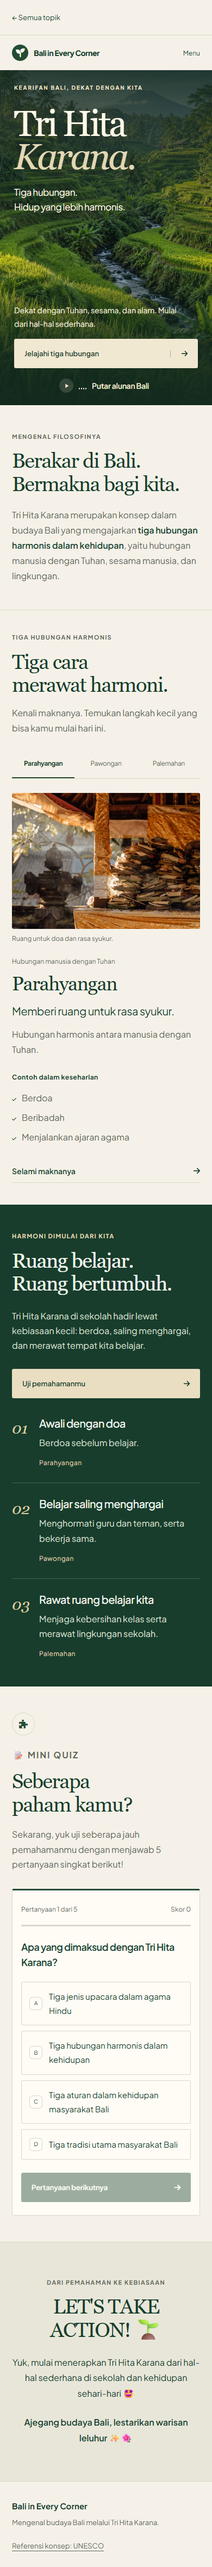
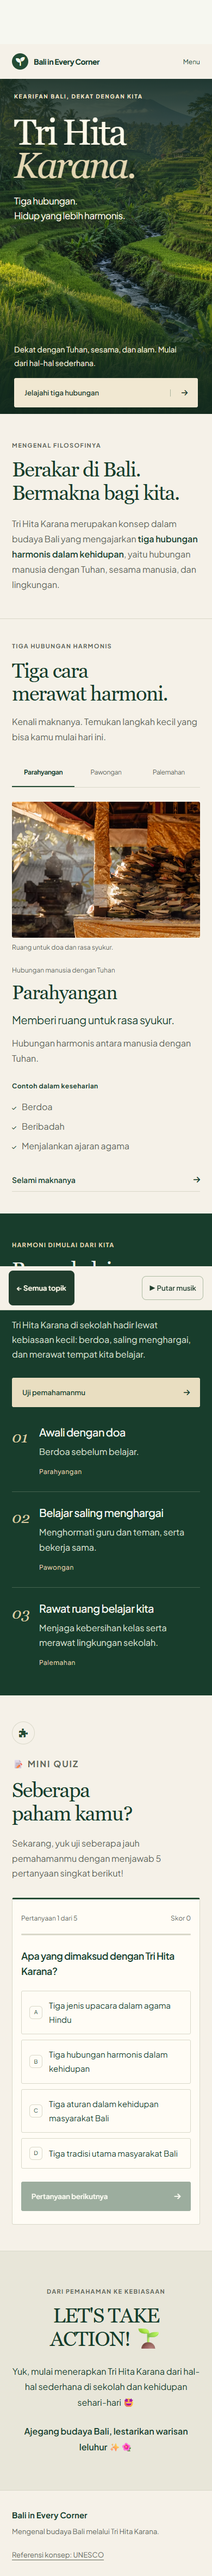
feat: keep topic navigation visible and share music across pages

Changed region(s): [[0.0, 0.0, 1.0, 0.654], [0.0615, 0.654, 0.8308, 0.9343], [0.8308, 0.7163, 0.8615, 0.7475]]

diff --git a/home-preview.html b/home-preview.html
@@ -1,6 +1,7 @@
 <!doctype html>
-<html lang="id"><head><meta charset="utf-8"><meta name="viewport" content="width=device-width,initial-scale=1"><title>Bali — Pilih ceritamu</title><link rel="stylesheet" href="css/fonts.css"><link rel="stylesheet" href="css/home-preview.css"></head><body><div class="shell"><header><a class="brand" href="home-preview.html"><span class="mark"><i class="fa-solid fa-seedling" aria-hidden="true"></i></span>Bali in Every Corner</a></header><main><div class="intro"><p class="eyebrow">DEKAT DENGAN BALI</p><h1>Pilih ceritamu.</h1></div><section class="explorer" aria-label="Pilihan topik" aria-roledescription="carousel"><div id="stage"><article class="slide" aria-label="1 dari 2: Tri Hita Karana"><img src="assets/images/bali-portrait.webp" alt="Ilustrasi sawah berundak di Bali"><div class="story"><p class="category">FILOSOFI & KEHIDUPAN</p><h2>Tri Hita<br><em>Karana.</em></h2><p class="summary">Tiga hubungan. Satu harmoni.</p><a class="enter" href="topic-preview.html">Mulai jelajahi <span aria-hidden="true">↗</span></a></div></article><article class="slide upcoming" aria-label="2 dari 2: Cerita berikutnya" hidden><span class="ornament" aria-hidden="true">✳</span><div class="story"><p class="category">PERJALANAN BERLANJUT</p><h2>Masih banyak<br><em>cerita.</em></h2><p class="summary">Topik berikutnya sedang disiapkan.</p><span class="soon">Segera hadir</span></div></article></div><div class="navigator"><div class="counter" aria-live="polite" aria-atomic="true"><span id="number">01</span><span class="divider"></span><span>02</span></div><div class="arrows"><button id="prev" type="button" aria-label="Topik sebelumnya" disabled>←</button><button id="next" type="button" aria-label="Topik berikutnya">→</button></div></div></section></main><footer>Budaya yang dekat. Cerita yang melekat.</footer></div><script>
+<html lang="id"><head><meta charset="utf-8"><meta name="viewport" content="width=device-width,initial-scale=1"><title>Bali — Pilih ceritamu</title><link rel="stylesheet" href="css/fonts.css"><link rel="stylesheet" href="css/home.css"><link rel="stylesheet" href="css/global.css"></head><body><nav class="site-bar" aria-label="Navigasi dan musik"><a class="all-topics" href="home-preview.html">← Semua topik</a><button id="g-audio-btn" type="button" aria-label="Putar musik latar Bali" aria-pressed="false"><span id="g-audio-label">▶ Putar musik</span></button><audio id="g-audio-el" preload="metadata" loop src="assets/audio/tri-hita-karana.mp3"></audio></nav><div class="shell"><header><a class="brand" href="home-preview.html"><span class="mark"><i class="fa-solid fa-seedling" aria-hidden="true"></i></span>Bali in Every Corner</a></header><main><div class="intro"><p class="eyebrow">DEKAT DENGAN BALI</p><h1>Pilih ceritamu.</h1></div><section class="explorer" aria-label="Pilihan topik" aria-roledescription="carousel"><div id="stage"><article class="slide" aria-label="1 dari 2: Tri Hita Karana"><img src="assets/images/bali-portrait.webp" alt="Ilustrasi sawah berundak di Bali"><div class="story"><p class="category">FILOSOFI & KEHIDUPAN</p><h2>Tri Hita<br><em>Karana.</em></h2><p class="summary">Tiga hubungan. Satu harmoni.</p><a class="enter" href="topic-preview.html">Mulai jelajahi <span aria-hidden="true">↗</span></a></div></article><article class="slide upcoming" aria-label="2 dari 2: Cerita berikutnya" hidden><span class="ornament" aria-hidden="true">✳</span><div class="story"><p class="category">PERJALANAN BERLANJUT</p><h2>Masih banyak<br><em>cerita.</em></h2><p class="summary">Topik berikutnya sedang disiapkan.</p><span class="soon">Segera hadir</span></div></article></div><div class="navigator"><div class="counter" aria-live="polite" aria-atomic="true"><span id="number">01</span><span class="divider"></span><span>02</span></div><div class="arrows"><button id="prev" type="button" aria-label="Topik sebelumnya" disabled>←</button><button id="next" type="button" aria-label="Topik berikutnya">→</button></div></div></section></main><footer>Budaya yang dekat. Cerita yang melekat.</footer></div><script>
 const slides=[...document.querySelectorAll('.slide')],prev=document.getElementById('prev'),next=document.getElementById('next'),stage=document.getElementById('stage');let current=0;
 function select(index){if(index<0||index>=slides.length||index===current)return;current=index;slides.forEach((slide,i)=>slide.hidden=i!==current);document.getElementById('number').textContent=String(current+1).padStart(2,'0');prev.disabled=current===0;next.disabled=current===slides.length-1;if(document.activeElement===prev&&prev.disabled)next.focus();else if(document.activeElement===next&&next.disabled)prev.focus();if(!matchMedia('(prefers-reduced-motion: reduce)').matches)slides[current].animate([{opacity:.4,transform:'translateY(8px)'},{opacity:1,transform:'translateY(0)'}],{duration:250,easing:'ease-out'});}
 prev.onclick=()=>select(current-1);next.onclick=()=>select(current+1);document.querySelector('.explorer').addEventListener('keydown',e=>{if(e.key==='ArrowRight'){e.preventDefault();select(current+1);}if(e.key==='ArrowLeft'){e.preventDefault();select(current-1);}});let start;stage.addEventListener('touchstart',e=>{start={x:e.touches[0].clientX,y:e.touches[0].clientY};},{passive:true});stage.addEventListener('touchend',e=>{if(!start)return;const dx=e.changedTouches[0].clientX-start.x,dy=e.changedTouches[0].clientY-start.y;if(Math.abs(dx)>60&&Math.abs(dx)>Math.abs(dy)*1.5)select(current+(dx<0?1:-1));start=null;},{passive:true});stage.addEventListener('touchcancel',()=>start=null);
-</script></body></html>
+</script><script src="js/music.js"></script></body></html>
+

diff --git a/index.html b/index.html
@@ -1,6 +1,6 @@
 <!doctype html>
-<html lang="id"><head><meta charset="utf-8"><meta name="viewport" content="width=device-width,initial-scale=1"><title>Bali — Pilih ceritamu</title><link rel="stylesheet" href="css/fonts.css"><link rel="stylesheet" href="css/home.css"></head><body><div class="shell"><header><a class="brand" href="index.html"><span class="mark"><i class="fa-solid fa-seedling" aria-hidden="true"></i></span>Bali in Every Corner</a></header><main><div class="intro"><p class="eyebrow">DEKAT DENGAN BALI</p><h1>Pilih ceritamu.</h1></div><section class="explorer" aria-label="Pilihan topik" aria-roledescription="carousel"><div id="stage"><article class="slide" aria-label="1 dari 2: Tri Hita Karana"><img src="assets/images/bali-portrait.webp" alt="Ilustrasi sawah berundak di Bali"><div class="story"><p class="category">FILOSOFI & KEHIDUPAN</p><h2>Tri Hita<br><em>Karana.</em></h2><p class="summary">Tiga hubungan. Satu harmoni.</p><a class="enter" href="tri-hita-karana.html">Mulai jelajahi <span aria-hidden="true">↗</span></a></div></article><article class="slide upcoming" aria-label="2 dari 2: Cerita berikutnya" hidden><span class="ornament" aria-hidden="true">✳</span><div class="story"><p class="category">PERJALANAN BERLANJUT</p><h2>Masih banyak<br><em>cerita.</em></h2><p class="summary">Topik berikutnya sedang disiapkan.</p><span class="soon">Segera hadir</span></div></article></div><div class="navigator"><div class="counter" aria-live="polite" aria-atomic="true"><span id="number">01</span><span class="divider"></span><span>02</span></div><div class="arrows"><button id="prev" type="button" aria-label="Topik sebelumnya" disabled>←</button><button id="next" type="button" aria-label="Topik berikutnya">→</button></div></div></section></main><footer>Budaya yang dekat. Cerita yang melekat.</footer></div><script>
+<html lang="id"><head><meta charset="utf-8"><meta name="viewport" content="width=device-width,initial-scale=1"><title>Bali — Pilih ceritamu</title><link rel="stylesheet" href="css/fonts.css"><link rel="stylesheet" href="css/home.css"><link rel="stylesheet" href="css/global.css"></head><body><nav class="site-bar" aria-label="Navigasi dan musik"><a class="all-topics" href="index.html">← Semua topik</a><button id="g-audio-btn" type="button" aria-label="Putar musik latar Bali" aria-pressed="false"><span id="g-audio-label">▶ Putar musik</span></button><audio id="g-audio-el" preload="metadata" loop src="assets/audio/tri-hita-karana.mp3"></audio></nav><div class="shell"><header><a class="brand" href="index.html"><span class="mark"><i class="fa-solid fa-seedling" aria-hidden="true"></i></span>Bali in Every Corner</a></header><main><div class="intro"><p class="eyebrow">DEKAT DENGAN BALI</p><h1>Pilih ceritamu.</h1></div><section class="explorer" aria-label="Pilihan topik" aria-roledescription="carousel"><div id="stage"><article class="slide" aria-label="1 dari 2: Tri Hita Karana"><img src="assets/images/bali-portrait.webp" alt="Ilustrasi sawah berundak di Bali"><div class="story"><p class="category">FILOSOFI & KEHIDUPAN</p><h2>Tri Hita<br><em>Karana.</em></h2><p class="summary">Tiga hubungan. Satu harmoni.</p><a class="enter" href="tri-hita-karana.html">Mulai jelajahi <span aria-hidden="true">↗</span></a></div></article><article class="slide upcoming" aria-label="2 dari 2: Cerita berikutnya" hidden><span class="ornament" aria-hidden="true">✳</span><div class="story"><p class="category">PERJALANAN BERLANJUT</p><h2>Masih banyak<br><em>cerita.</em></h2><p class="summary">Topik berikutnya sedang disiapkan.</p><span class="soon">Segera hadir</span></div></article></div><div class="navigator"><div class="counter" aria-live="polite" aria-atomic="true"><span id="number">01</span><span class="divider"></span><span>02</span></div><div class="arrows"><button id="prev" type="button" aria-label="Topik sebelumnya" disabled>←</button><button id="next" type="button" aria-label="Topik berikutnya">→</button></div></div></section></main><footer>Budaya yang dekat. Cerita yang melekat.</footer></div><script>
 const slides=[...document.querySelectorAll('.slide')],prev=document.getElementById('prev'),next=document.getElementById('next'),stage=document.getElementById('stage');let current=0;
 function select(index){if(index<0||index>=slides.length||index===current)return;current=index;slides.forEach((slide,i)=>slide.hidden=i!==current);document.getElementById('number').textContent=String(current+1).padStart(2,'0');prev.disabled=current===0;next.disabled=current===slides.length-1;if(document.activeElement===prev&&prev.disabled)next.focus();else if(document.activeElement===next&&next.disabled)prev.focus();if(!matchMedia('(prefers-reduced-motion: reduce)').matches)slides[current].animate([{opacity:.4,transform:'translateY(8px)'},{opacity:1,transform:'translateY(0)'}],{duration:250,easing:'ease-out'});}
 prev.onclick=()=>select(current-1);next.onclick=()=>select(current+1);document.querySelector('.explorer').addEventListener('keydown',e=>{if(e.key==='ArrowRight'){e.preventDefault();select(current+1);}if(e.key==='ArrowLeft'){e.preventDefault();select(current-1);}});let start;stage.addEventListener('touchstart',e=>{start={x:e.touches[0].clientX,y:e.touches[0].clientY};},{passive:true});stage.addEventListener('touchend',e=>{if(!start)return;const dx=e.changedTouches[0].clientX-start.x,dy=e.changedTouches[0].clientY-start.y;if(Math.abs(dx)>60&&Math.abs(dx)>Math.abs(dy)*1.5)select(current+(dx<0?1:-1));start=null;},{passive:true});stage.addEventListener('touchcancel',()=>start=null);
-</script></body></html>
+</script><script src="js/music.js"></script></body></html>

diff --git a/js/app.js b/js/app.js
@@ -95,25 +95,4 @@
  if('IntersectionObserver'in window&&!reduced.matches){const observer=new IntersectionObserver(entries=>{entries.forEach(entry=>{if(entry.isIntersecting){entry.target.classList.remove('g-pending');observer.unobserve(entry.target);}});},{threshold:.06});root.querySelectorAll('.g-reveal, .g-school-list li').forEach(n=>{n.classList.add('g-reveal','g-pending');observer.observe(n);});}
  function updateMotion(){root.style.colorScheme=design.appearance==='auto'?'':design.appearance;root.style.setProperty('--g-duration',design.motion==='off'?'0ms':design.motion==='gentle'?'450ms':'650ms');root.querySelectorAll('.g-pending').forEach(n=>n.classList.remove('g-pending'));root.dataset.motion=design.motion;if(design.motion==='off')root.getAnimations({subtree:true}).forEach(a=>a.cancel());}
  if(globalThis.Tweak){const tweak=new Tweak({container:root,onChange:updateMotion});tweak.addSelect(design,'appearance',{label:'Tampilan hijau',options:[{label:'Ikuti perangkat',value:'auto'},{label:'Hijau terang',value:'light'},{label:'Hijau hutan gelap',value:'dark'}]});tweak.addSelect(design,'motion',{label:'Gerakan',options:[{label:'Mengalir',value:'flow'},{label:'Lebih tenang',value:'gentle'},{label:'Tanpa animasi',value:'off'}]});}
-  // Ambient Balinese Music Controller
-  const audioDock=find('g-audio-dock'),audioBtn=find('g-audio-btn'),audioBubble=find('g-audio-bubble'),audioBubbleClose=find('g-audio-bubble-close'),audioLabel=find('g-audio-label'),audio=find('g-audio-el');
-  let fadeTimer=null;
-  function setVolume(target,duration=500,onDone){if(!audio)return;clearInterval(fadeTimer);const stepMs=30,steps=Math.max(1,duration/stepMs),diff=(target-audio.volume)/steps;fadeTimer=setInterval(()=>{const next=audio.volume+diff;if((diff>0&&next>=target)||(diff<0&&next<=target)||diff===0){audio.volume=Math.max(0,Math.min(1,target));clearInterval(fadeTimer);if(onDone)onDone();}else{audio.volume=Math.max(0,Math.min(1,next));}},stepMs);}
-  function updateAudioUI(playing){if(!audioBtn)return;audioBtn.dataset.playing=String(playing);audioBtn.setAttribute('aria-pressed',String(playing));audioBtn.setAttribute('aria-label',playing?'Jeda musik latar Bali':'Putar musik latar Bali');if(audioLabel)audioLabel.textContent=playing?'Jeda alunan Bali':'Putar alunan Bali';}
-  function dismissBubble(){if(audioBubble){audioBubble.classList.add('g-hidden');try{sessionStorage.setItem('thk_audio_bubble_dismissed','1');}catch(_){}}}
-  async function playAudio(fade=true){dismissBubble();if(!audio)return;try{audio.volume=fade?0:.65;const promise=audio.play();if(promise!==undefined){await promise;updateAudioUI(true);if(fade)setVolume(.65,700);}}catch(err){console.log('Audio playback waiting for user action:',err);updateAudioUI(false);}}
-  function pauseAudio(){if(!audio)return;setVolume(0,350,()=>{audio.pause();updateAudioUI(false);});}
-  function toggleAudio(){stopAutoplayRetry();if(!audio)return;if(audio.paused)playAudio();else pauseAudio();}
-  if(audioBtn)audioBtn.addEventListener('click',toggleAudio);
-  if(audioBubble){audioBubble.addEventListener('click',e=>{if(e.target===audioBubbleClose||e.target.closest('#g-audio-bubble-close')){e.stopPropagation();dismissBubble();}else{toggleAudio();}});}
-  if(audio){audio.addEventListener('play',()=>{stopAutoplayRetry();updateAudioUI(true);});audio.addEventListener('pause',()=>{if(!audio.seeking)updateAudioUI(false);});audio.addEventListener('ended',()=>updateAudioUI(false));}
-  // One initial audible attempt; retry only until playback or explicit music control.
-  function stopAutoplayRetry(){document.removeEventListener('click',retryAutoplay);document.removeEventListener('keydown',retryAutoplay);}
-  function retryAutoplay(event){
-    if(event.target.closest?.('#g-audio-dock'))return;
-    if(event.type==='keydown'&&!['Enter',' '].includes(event.key))return;
-    playAudio(false);
-  }
-  if(audio){document.addEventListener('click',retryAutoplay);document.addEventListener('keydown',retryAutoplay);playAudio(false);}
-  try{if(sessionStorage.getItem('thk_audio_bubble_dismissed')==='1')dismissBubble();else setTimeout(dismissBubble,6500);}catch(_){setTimeout(dismissBubble,6500);}
 })();

diff --git a/topic-preview.html b/topic-preview.html
@@ -7,12 +7,12 @@
   <meta name="description" content="Kenali Tri Hita Karana: hubungan harmonis dengan Tuhan, sesama manusia, dan lingkungan, serta contoh penerapannya di sekolah.">
   <link rel="stylesheet" href="css/fonts.css">
   <link rel="stylesheet" href="css/style.css">
-<link rel="stylesheet" href="css/mobile.css?v=3"></head>
-<body>
+<link rel="stylesheet" href="css/mobile.css?v=3"><link rel="stylesheet" href="css/global.css"></head>
+<body><nav class="site-bar" aria-label="Navigasi dan musik"><a class="all-topics" href="home-preview.html">← Semua topik</a><button id="g-audio-btn" type="button" aria-label="Putar musik latar Bali" aria-pressed="false"><span id="g-audio-label">▶ Putar musik</span></button><audio id="g-audio-el" preload="metadata" loop src="assets/audio/tri-hita-karana.mp3"></audio></nav>
 
 <div id="thk-green" aria-label="Tri Hita Karana, eksplorasi interaktif">
  <a class="g-skip" href="#g-home">Lewati ke konten</a>
- <nav class="g-wrap" aria-label="Kembali ke beranda" style="padding-block:10px;border-bottom:1px solid var(--g-line)"><a href="home-preview.html" style="display:inline-flex;align-items:center;min-height:44px;font-size:13px">← Semua topik</a></nav><header class="g-nav g-wrap">
+<header class="g-nav g-wrap">
    <a class="g-brand" href="#g-home"><span class="g-brand-mark"><i class="fa-solid fa-seedling" aria-hidden="true"></i></span>Bali in Every Corner</a>
    <button type="button" class="g-menu-toggle" id="g-menu" aria-expanded="false" aria-controls="g-navigation">Menu</button>
    <nav class="g-navlinks" id="g-navigation" aria-label="Navigasi utama">
@@ -32,31 +32,7 @@
         <p class="g-hero-subtitle">Tiga hubungan.<br>Hidup yang lebih harmonis.</p>
         <p class="g-hero-description">Dekat dengan Tuhan, sesama, dan alam. Mulai dari hal-hal sederhana.</p>
         <a class="g-action" href="#g-explore">Jelajahi tiga hubungan <i class="fa-solid fa-arrow-right" aria-hidden="true"></i></a>
- <!-- Ambient music: inline on mobile, floating on desktop -->
- <aside class="g-audio-dock" id="g-audio-dock" aria-label="Kontrol musik latar">
-   <div class="g-audio-bubble" id="g-audio-bubble" role="status">
-     <span>Dengarkan alunan Bali</span>
-     <button type="button" class="g-audio-bubble-close" id="g-audio-bubble-close" aria-label="Tutup petunjuk">×</button>
-   </div>
-   <button type="button" class="g-audio-btn" id="g-audio-btn" aria-label="Putar musik latar Bali" aria-pressed="false" data-playing="false">
-     <span class="g-audio-disc" aria-hidden="true">
-       <svg class="g-icon-play" viewBox="0 0 24 24" width="13" height="13" fill="currentColor">
-         <path d="M8 5v14l11-7z"/>
-       </svg>
-       <svg class="g-icon-pause" viewBox="0 0 24 24" width="13" height="13" fill="currentColor">
-         <path d="M6 19h4V5H6v14zm8-14v14h4V5h-4z"/>
-       </svg>
-     </span>
-     <span class="g-audio-equalizer" aria-hidden="true">
-       <span class="g-eq-bar"></span>
-       <span class="g-eq-bar"></span>
-       <span class="g-eq-bar"></span>
-       <span class="g-eq-bar"></span>
-     </span>
-     <span class="g-audio-label" id="g-audio-label">Putar alunan Bali</span>
-   </button>
-   <audio id="g-audio-el" preload="none" loop src="assets/audio/tri-hita-karana.mp3"></audio>
- </aside>
+
       </div>
       <div class="g-hero-visual">
         <figure class="g-landscape">
@@ -167,8 +143,8 @@
 </div>
 
   <!-- Main Application Script -->
-  <script src="js/app.js?v=4"></script>
-</body>
+  <script src="js/app.js?v=5"></script>
+<script src="js/music.js"></script></body>
 </html>
 
 

diff --git a/tri-hita-karana.html b/tri-hita-karana.html
@@ -7,12 +7,12 @@
   <meta name="description" content="Kenali Tri Hita Karana: hubungan harmonis dengan Tuhan, sesama manusia, dan lingkungan, serta contoh penerapannya di sekolah.">
   <link rel="stylesheet" href="css/fonts.css">
   <link rel="stylesheet" href="css/style.css">
-<link rel="stylesheet" href="css/mobile.css?v=3"></head>
-<body>
+<link rel="stylesheet" href="css/mobile.css?v=3"><link rel="stylesheet" href="css/global.css"></head>
+<body><nav class="site-bar" aria-label="Navigasi dan musik"><a class="all-topics" href="index.html">← Semua topik</a><button id="g-audio-btn" type="button" aria-label="Putar musik latar Bali" aria-pressed="false"><span id="g-audio-label">▶ Putar musik</span></button><audio id="g-audio-el" preload="metadata" loop src="assets/audio/tri-hita-karana.mp3"></audio></nav>
 
 <div id="thk-green" aria-label="Tri Hita Karana, eksplorasi interaktif">
  <a class="g-skip" href="#g-home">Lewati ke konten</a>
- <nav class="g-wrap" aria-label="Kembali ke beranda" style="padding-block:10px;border-bottom:1px solid var(--g-line)"><a href="index.html" style="display:inline-flex;align-items:center;min-height:44px;font-size:13px">← Semua topik</a></nav><header class="g-nav g-wrap">
+<header class="g-nav g-wrap">
    <a class="g-brand" href="#g-home"><span class="g-brand-mark"><i class="fa-solid fa-seedling" aria-hidden="true"></i></span>Bali in Every Corner</a>
    <button type="button" class="g-menu-toggle" id="g-menu" aria-expanded="false" aria-controls="g-navigation">Menu</button>
    <nav class="g-navlinks" id="g-navigation" aria-label="Navigasi utama">
@@ -32,31 +32,7 @@
         <p class="g-hero-subtitle">Tiga hubungan.<br>Hidup yang lebih harmonis.</p>
         <p class="g-hero-description">Dekat dengan Tuhan, sesama, dan alam. Mulai dari hal-hal sederhana.</p>
         <a class="g-action" href="#g-explore">Jelajahi tiga hubungan <i class="fa-solid fa-arrow-right" aria-hidden="true"></i></a>
- <!-- Ambient music: inline on mobile, floating on desktop -->
- <aside class="g-audio-dock" id="g-audio-dock" aria-label="Kontrol musik latar">
-   <div class="g-audio-bubble" id="g-audio-bubble" role="status">
-     <span>Dengarkan alunan Bali</span>
-     <button type="button" class="g-audio-bubble-close" id="g-audio-bubble-close" aria-label="Tutup petunjuk">×</button>
-   </div>
-   <button type="button" class="g-audio-btn" id="g-audio-btn" aria-label="Putar musik latar Bali" aria-pressed="false" data-playing="false">
-     <span class="g-audio-disc" aria-hidden="true">
-       <svg class="g-icon-play" viewBox="0 0 24 24" width="13" height="13" fill="currentColor">
-         <path d="M8 5v14l11-7z"/>
-       </svg>
-       <svg class="g-icon-pause" viewBox="0 0 24 24" width="13" height="13" fill="currentColor">
-         <path d="M6 19h4V5H6v14zm8-14v14h4V5h-4z"/>
-       </svg>
-     </span>
-     <span class="g-audio-equalizer" aria-hidden="true">
-       <span class="g-eq-bar"></span>
-       <span class="g-eq-bar"></span>
-       <span class="g-eq-bar"></span>
-       <span class="g-eq-bar"></span>
-     </span>
-     <span class="g-audio-label" id="g-audio-label">Putar alunan Bali</span>
-   </button>
-   <audio id="g-audio-el" preload="none" loop src="assets/audio/tri-hita-karana.mp3"></audio>
- </aside>
+
       </div>
       <div class="g-hero-visual">
         <figure class="g-landscape">
@@ -167,8 +143,8 @@
 </div>
 
   <!-- Main Application Script -->
-  <script src="js/app.js?v=4"></script>
-</body>
+  <script src="js/app.js?v=5"></script>
+<script src="js/music.js"></script></body>
 </html>
 
 

diff --git a/js/music.js b/js/music.js
@@ -1,0 +1,17 @@
+(()=>{
+ const audio=document.getElementById('g-audio-el'),button=document.getElementById('g-audio-btn'),label=document.getElementById('g-audio-label');
+ if(!audio||!button)return;
+ let saved={},wantPlay=true;
+ try{saved=JSON.parse(sessionStorage.getItem('bali-music')||'{}');}catch{}
+ wantPlay=saved.playing!==false;audio.volume=.65;
+ function save(){try{sessionStorage.setItem('bali-music',JSON.stringify({playing:wantPlay,time:audio.currentTime}));}catch{}}
+ function update(){const playing=!audio.paused;button.setAttribute('aria-pressed',String(playing));button.setAttribute('aria-label',playing?'Jeda musik latar Bali':'Putar musik latar Bali');label.textContent=playing?'Ⅱ Jeda musik':'▶ Putar musik';}
+ function stopRetry(){document.removeEventListener('click',retry);document.removeEventListener('keydown',retry);}
+ async function play(){try{await audio.play();}catch{update();}}
+ function retry(event){if(event.target.closest?.('#g-audio-btn')||!wantPlay)return;if(event.type==='keydown'&&!['Enter',' '].includes(event.key))return;play();}
+ audio.addEventListener('loadedmetadata',()=>{if(Number.isFinite(saved.time)&&saved.time>0&&saved.time<audio.duration)audio.currentTime=saved.time;},{once:true});
+ audio.addEventListener('play',()=>{stopRetry();update();});audio.addEventListener('pause',update);
+ button.addEventListener('click',()=>{stopRetry();wantPlay=audio.paused;if(wantPlay)play();else audio.pause();save();});
+ addEventListener('pagehide',save);document.addEventListener('visibilitychange',()=>{if(document.hidden)save();});
+ if(wantPlay){document.addEventListener('click',retry);document.addEventListener('keydown',retry);play();}else update();
+})();

diff --git a/css/global.css b/css/global.css
@@ -1,0 +1,6 @@
+.site-bar{position:sticky;top:0;z-index:100;display:flex;align-items:center;justify-content:space-between;gap:12px;padding:8px max(16px,calc((100% - 1120px)/2));background:#f5f1e8;border-bottom:1px solid #c7cebe;box-shadow:0 3px 14px #173c2a12;font:600 13px/1.4 'Plus Jakarta Sans',Arial,sans-serif;color:#203d2d}
+.site-bar .all-topics{display:inline-flex;align-items:center;min-height:44px;padding:10px 15px;background:#203d2d;color:#fff9e9;border-radius:8px;text-decoration:none}
+.site-bar button{width:auto;height:auto;min-height:44px;padding:10px 12px;border:1px solid #aebba3;border-radius:8px;background:transparent;color:#203d2d;font:inherit;cursor:pointer}
+.site-bar :focus-visible{outline:3px solid #997127;outline-offset:3px}
+html{scroll-padding-top:76px}
+.site-bar,.site-bar *{box-sizing:border-box}

diff --git a/STATUS.md b/STATUS.md
@@ -137,3 +137,9 @@
 - Homepage contains topic selection only, no lesson or audio. Coming-soon card remains inactive. Existing quiz and autoplay are retained on the topic page.
 - Adjusted mobile hero viewport allowance for added return navigation and retargeted topic/autoplay verification scripts to the new URL.
 - Verified production homepage card navigation and return. Publishing to GitHub main on explicit user request.
+
+## 2026-09-24: Persistent navigation and shared music
+- Added high-contrast sticky Semua topik control and music controls in a shared top bar on homepage and topic page. Updated current review pages to match.
+- Extracted music into js/music.js. Playback preference and time persist across full-page navigation via sessionStorage; paused music stays paused. Browser autoplay restrictions still apply; full-page transitions may briefly interrupt audio.
+- Verified sticky bar at quiz depth, single audio player, paused state across pages, resume at saved position, and responsive widths 320/390/1440. Screenshot inspected.
+- Interpreted user's 'lagi' as 'lagu' in context and implemented music globally. Publishing under standing authorization.
